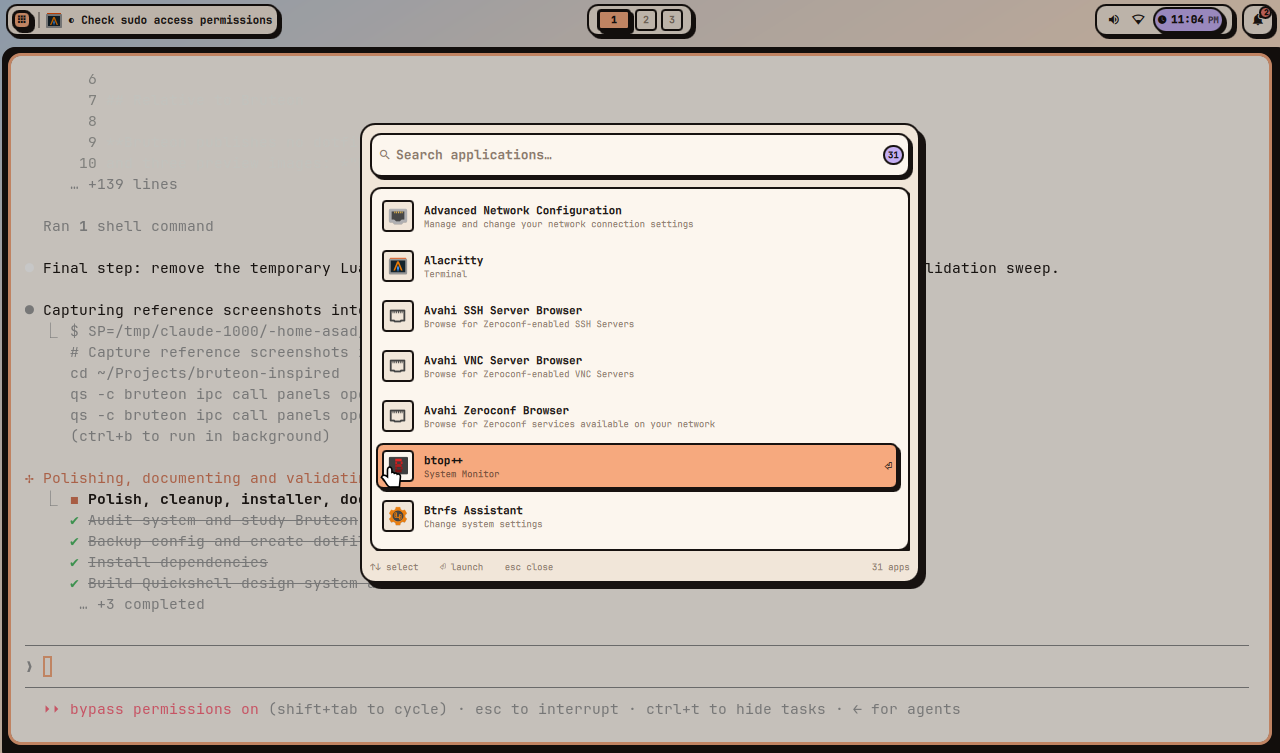
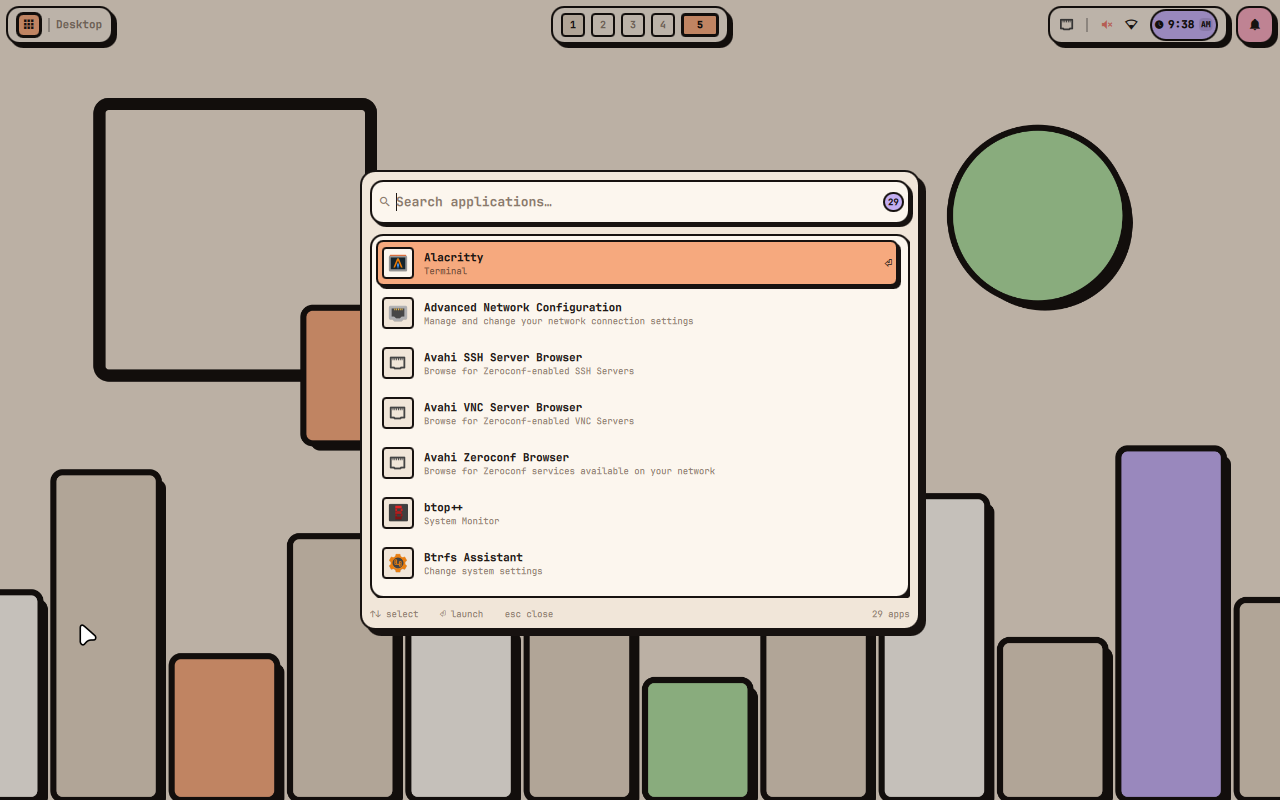
fix: stale window title and wallpaper drift; refresh screenshots
The README's screenshot grid had five images in six cells, so the last row
rendered an empty box on GitHub. It is a 3x2 grid now — desktop, launcher,
control center, calendar, dusk and lock.

All six are regenerated. The previous set predated the rename and the new
wallpaper, and several of them had a terminal in frame showing an unrelated
working session; the new ones are taken on an empty workspace.

Capturing them surfaced two real bugs:

Hyprland does not reliably clear the active toplevel when focus moves to an
empty workspace, so the bar kept showing the last focused window's title over a
bare desktop — which is why the first attempt still had a terminal name in it.
ActiveWindow now also requires the remembered window to live on the focused
workspace, and the stale case resolves to "Desktop".

Wall.qml overwrote the saved wallpaper on startup. The directory listing and the
state-file read race each other, and the listing usually wins; the fallback then
saw an empty `current`, read that as "nothing selected" rather than "not known
yet", and applied whatever sorted first. That is how a deliberate choice
silently became the blocks variant after a reboot. The fallback now waits for
the state file to resolve, and either side of the race can apply it.

diff --git a/quickshell/Services/Wall.qml b/quickshell/Services/Wall.qml
@@ -89,6 +89,10 @@ Singleton {
         }
     }
 
+    // Until the saved selection has been read, `current` being empty means "not
+    // known yet", not "nothing selected" — see the fallback in the lister below.
+    property bool selectionResolved: false
+
     FileView {
         id: selection
         path: root.stateFile
@@ -98,7 +102,11 @@ Singleton {
         onLoaded: {
             const p = text().trim();
             if (p !== "") root.current = p;
+            root.selectionResolved = true;
         }
+        // No state file yet (first run) — there is nothing to restore, so the
+        // fallback is free to choose.
+        onLoadFailed: root.selectionResolved = true
         onFileChanged: reload()
     }
 
@@ -115,11 +123,24 @@ Singleton {
             onStreamFinished: {
                 const list = text.split("\n").filter(l => l.trim() !== "");
                 root.available = list;
-                // Fall back to the first wallpaper if nothing valid is selected.
-                if (root.current === "" && list.length > 0)
+                // Fall back to the first wallpaper only once we know there is no
+                // saved selection. This listing usually finishes before the state
+                // file has been read, and the unguarded fallback then overwrote
+                // the user's chosen wallpaper with whatever sorted first — which
+                // is how a deliberate choice silently became the "blocks" variant
+                // after a reboot.
+                if (root.selectionResolved && root.current === "" && list.length > 0)
                     root.setWallpaper(list[0]);
             }
         }
+    }
+
+    // The listing and the state-file read race each other, so whichever finishes
+    // last has to apply the fallback. This is the other half of the guard in the
+    // lister above.
+    onSelectionResolvedChanged: {
+        if (selectionResolved && current === "" && available.length > 0)
+            setWallpaper(available[0]);
     }
 
     function refresh() { lister.running = true; }

diff --git a/quickshell/Bar/ActiveWindow.qml b/quickshell/Bar/ActiveWindow.qml
@@ -20,7 +20,16 @@ Item {
         return toplevel.lastIpcObject.class || "";
     }
     readonly property string title: toplevel && toplevel.title ? toplevel.title : ""
-    readonly property bool hasWindow: toplevel !== null && title !== ""
+
+    // Hyprland does not always clear the active toplevel when focus moves to an
+    // empty workspace, so the bar kept displaying the last focused window's title
+    // over a bare desktop. Requiring the remembered window to actually live on the
+    // focused workspace makes the stale case resolve to "Desktop".
+    readonly property bool onFocusedWorkspace: {
+        if (!toplevel || !toplevel.workspace || !Hyprland.focusedWorkspace) return false;
+        return toplevel.workspace.id === Hyprland.focusedWorkspace.id;
+    }
+    readonly property bool hasWindow: toplevel !== null && title !== "" && onFocusedWorkspace
 
     readonly property var entry: appClass !== "" ? DesktopEntries.heuristicLookup(appClass) : null
     readonly property string iconName: entry && entry.icon ? entry.icon : appClass.toLowerCase()

diff --git a/README.md b/README.md
@@ -44,11 +44,11 @@ In [`docs/screenshots/`](docs/screenshots). Regenerate with
 | | |
 |---|---|
 | ![desktop](docs/screenshots/desktop.png) | ![launcher](docs/screenshots/launcher.png) |
-| bar, wallpaper, window decoration | application launcher |
-| ![control center](docs/screenshots/control-center.png) | ![dusk](docs/screenshots/dusk.png) |
-| control center — system tab | the same panel in the `dusk` palette |
-| ![lock](docs/screenshots/lock.png) | |
-| hyprlock | |
+| **Desktop** — bar and generated wallpaper | **Launcher** — fuzzy search over `.desktop` entries |
+| ![control center](docs/screenshots/control-center.png) | ![calendar](docs/screenshots/calendar.png) |
+| **Control center** — audio, media, specs, resources, connectivity | **Calendar** — clock, date, month navigation |
+| ![dusk](docs/screenshots/dusk.png) | ![lock](docs/screenshots/lock.png) |
+| **Neobrix Dark** — the same panel in the `dusk` palette | **Lock screen** — hyprlock, themed from the same palette |
 
 ## Architecture
 
